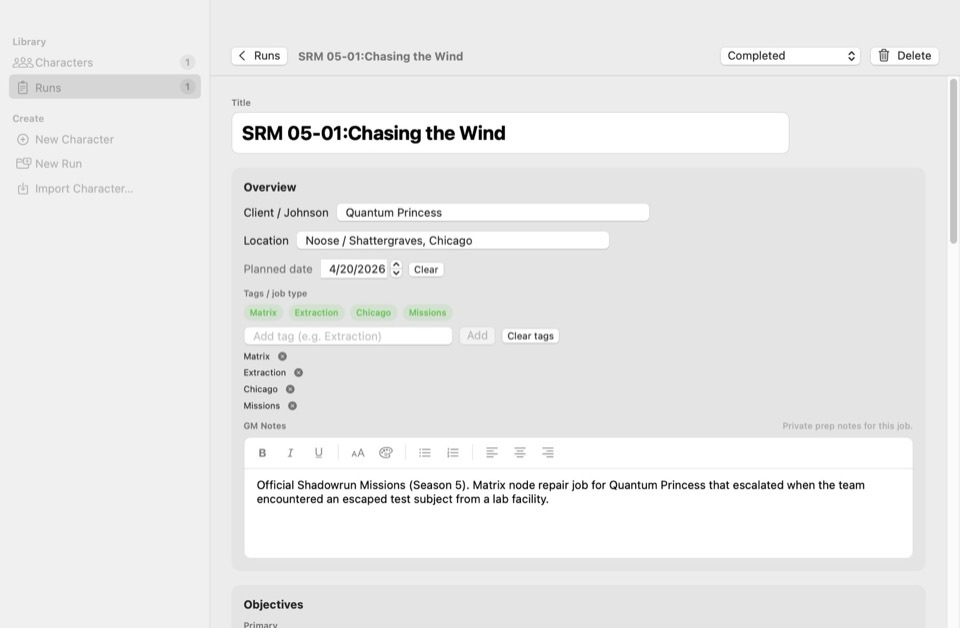
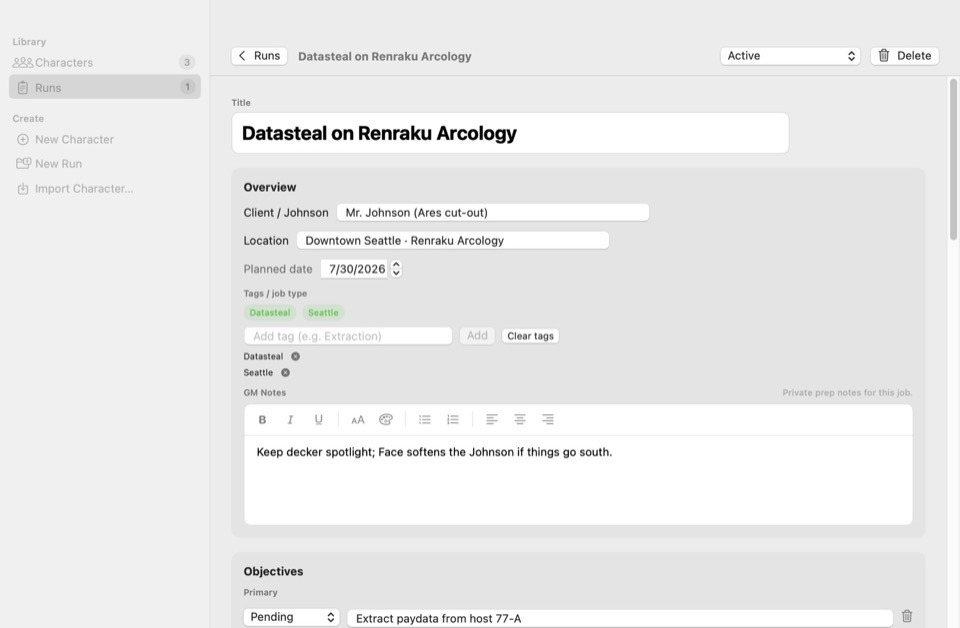
Use an in-memory sample library for marketing screenshots.
Marquee capture no longer opens the on-disk personal Character/Run libraries.
Capture launches with LibraryEnvironment.marketingCapture() (SR4/5/6 samples
plus one seeded run), regenerates Docs/Screenshots, and documents the privacy
behavior in the capture script and Screenshots README.

diff --git a/ShadowDeck/UI/ContentView.swift b/ShadowDeck/UI/ContentView.swift
@@ -598,22 +598,13 @@ struct ContentView: View {
     }
 
     /// Drive UI into known-good states for README marquee captures.
+    /// Capture launches with an in-memory sample-only library (`LibraryEnvironment.marketingCapture()`).
     private func handleMarketingPhase(_ phase: MarketingScreenshotExporter.Phase) {
         switch phase {
         case .splash:
             break
         case .library:
             marketingOpenRunID = nil
-            // Ensure the library has something photogenic.
-            do {
-                if try libraryEnvironment.library.count() == 0 {
-                    for sample in SampleCharacters.makeAll() {
-                        try libraryEnvironment.library.save(sample)
-                    }
-                }
-            } catch {
-                statusMessage = "Screenshot seed failed: \(error.localizedDescription)"
-            }
             selection = .characters
             selectedCharacterID = nil
             libraryQuery = ""
@@ -630,24 +621,8 @@ struct ContentView: View {
             marketingOpenRunID = nil
             selection = .characters
             refresh()
-            // Prefer the SR5 sample combat mage if present; else first library row.
-            let preferred = SampleCharacters.sr5ID
-            if summaries.contains(where: { $0.id == preferred }) {
-                selectedCharacterID = preferred
-            } else if let first = summaries.first?.id {
-                selectedCharacterID = first
-            } else {
-                // Seed and open SR5 sample.
-                do {
-                    for sample in SampleCharacters.makeAll() {
-                        try libraryEnvironment.library.save(sample)
-                    }
-                    refresh()
-                    selectedCharacterID = preferred
-                } catch {
-                    statusMessage = "Screenshot open failed: \(error.localizedDescription)"
-                }
-            }
+            // Always the SR5 sample combat mage (seeded in marketingCapture library).
+            selectedCharacterID = SampleCharacters.sr5ID
             // Showcase Advancement Planner on the marquee character-sheet shot.
             DispatchQueue.main.asyncAfter(deadline: .now() + 0.35) {
                 NotificationCenter.default.post(name: AppCommand.characterSheetShowAdvanceTab, object: nil)
@@ -655,12 +630,12 @@ struct ContentView: View {
         case .runLibrary:
             selectedCharacterID = nil
             marketingOpenRunID = nil
-            ensureSampleRunForScreenshots(openDetail: false)
+            openMarketingSampleRun(detail: false)
             selection = .runs
             refresh()
         case .runDetail:
             selectedCharacterID = nil
-            ensureSampleRunForScreenshots(openDetail: true)
+            openMarketingSampleRun(detail: true)
             selection = .runs
             refresh()
         case .finished:
@@ -668,47 +643,14 @@ struct ContentView: View {
         }
     }
 
-    /// Prefer an existing run (user library); otherwise seed a photogenic sample job.
-    private func ensureSampleRunForScreenshots(openDetail: Bool) {
+    /// Open the single seeded marketing run (never scans personal on-disk libraries).
+    private func openMarketingSampleRun(detail: Bool) {
         do {
-            let existing = try libraryEnvironment.runLibrary.listSummaries()
-            if let first = existing.first {
-                marketingOpenRunID = openDetail ? first.id : nil
-                return
-            }
-            // Seed characters if needed so the run can list a team.
-            if try libraryEnvironment.library.count() == 0 {
-                for sample in SampleCharacters.makeAll() {
-                    try libraryEnvironment.library.save(sample)
-                }
-                refresh()
-            }
-            let team = try libraryEnvironment.library.listSummaries()
-            var run = Run.makeDraft(title: "Datasteal on Renraku Arcology")
-            run.tags = ["Datasteal", "Seattle"]
-            run.status = .active
-            run.client = "Mr. Johnson (Ares cut-out)"
-            run.location = "Downtown Seattle · Renraku Arcology"
-            run.objectives = [
-                RunObjective(text: "Extract paydata from host 77-A", isPrimary: true, status: .pending),
-                RunObjective(text: "No civilian casualties", isPrimary: false, status: .pending),
-            ]
-            run.opposition = "High-threat Matrix IC; two corp security mage teams on rotation."
-            run.complicationsNotes = "Johnson may double-cross once the data leaves the building."
-            run.expectedPayout = RunPayout(nuyen: 18_000, karma: 6)
-            run.heatDelta = 2
-            run.participantCharacterIDs = team.prefix(2).map(\.id)
-            run.sessionLog = [
-                RunLogEntry(kind: .session, text: "Session 1 — matrix recon complete."),
-                RunLogEntry(kind: .complication, text: "Spider noticed the probe; clock is ticking."),
-            ]
-            run.gmNotes = "Keep decker spotlight; Face softens the Johnson if things go south."
-            run.applyStatus(.active)
-            try libraryEnvironment.runLibrary.save(run)
+            let runs = try libraryEnvironment.runLibrary.listSummaries()
+            marketingOpenRunID = detail ? runs.first?.id : nil
             libraryEnvironment.refreshRunCount()
-            marketingOpenRunID = openDetail ? run.id : nil
         } catch {
-            statusMessage = "Screenshot run seed failed: \(error.localizedDescription)"
+            statusMessage = "Screenshot run open failed: \(error.localizedDescription)"
         }
     }
 

diff --git a/ShadowDeck/Persistence/LibraryEnvironment.swift b/ShadowDeck/Persistence/LibraryEnvironment.swift
@@ -43,6 +43,38 @@ public final class LibraryEnvironment {
         return LibraryEnvironment(container: container, library: library, runLibrary: runLibrary)
     }
 
+    /// In-memory library with SR4/5/6 samples + one photogenic run.
+    /// Used for README marquee captures so personal disk libraries never appear.
+    public static func marketingCapture() throws -> LibraryEnvironment {
+        let env = try ephemeral()
+        for sample in SampleCharacters.makeAll() {
+            try env.library.save(sample)
+        }
+        var run = Run.makeDraft(title: "Datasteal on Renraku Arcology")
+        run.tags = ["Datasteal", "Seattle"]
+        run.status = .active
+        run.client = "Mr. Johnson (Ares cut-out)"
+        run.location = "Downtown Seattle · Renraku Arcology"
+        run.objectives = [
+            RunObjective(text: "Extract paydata from host 77-A", isPrimary: true, status: .pending),
+            RunObjective(text: "No civilian casualties", isPrimary: false, status: .pending),
+        ]
+        run.opposition = "High-threat Matrix IC; two corp security mage teams on rotation."
+        run.complicationsNotes = "Johnson may double-cross once the data leaves the building."
+        run.expectedPayout = RunPayout(nuyen: 18_000, karma: 6)
+        run.heatDelta = 2
+        run.participantCharacterIDs = [SampleCharacters.sr5ID, SampleCharacters.sr4ID]
+        run.sessionLog = [
+            RunLogEntry(kind: .session, text: "Session 1 — matrix recon complete."),
+            RunLogEntry(kind: .complication, text: "Spider noticed the probe; clock is ticking."),
+        ]
+        run.gmNotes = "Keep decker spotlight; Face softens the Johnson if things go south."
+        run.applyStatus(.active)
+        try env.runLibrary.save(run)
+        env.refreshRunCount()
+        return env
+    }
+
     public static func preview(seedSamples: Bool = true) -> LibraryEnvironment {
         do {
             let env = try ephemeral()

diff --git a/ShadowDeck/App/ShadowDeckApp.swift b/ShadowDeck/App/ShadowDeckApp.swift
@@ -24,7 +24,12 @@ struct ShadowDeckApp: App {
         UserDefaults.standard.removeObject(forKey: "hasSeenLaunchSplash")
         UserDefaults.standard.set(Self.splashRevision, forKey: "launchSplashRevision")
         do {
-            libraryEnvironment = try LibraryEnvironment.live()
+            // Marketing captures never open the on-disk personal library.
+            if MarketingScreenshotExporter.isEnabled {
+                libraryEnvironment = try LibraryEnvironment.marketingCapture()
+            } else {
+                libraryEnvironment = try LibraryEnvironment.live()
+            }
         } catch {
             // Fall back to empty in-memory so the window still launches if disk setup fails.
             do {
